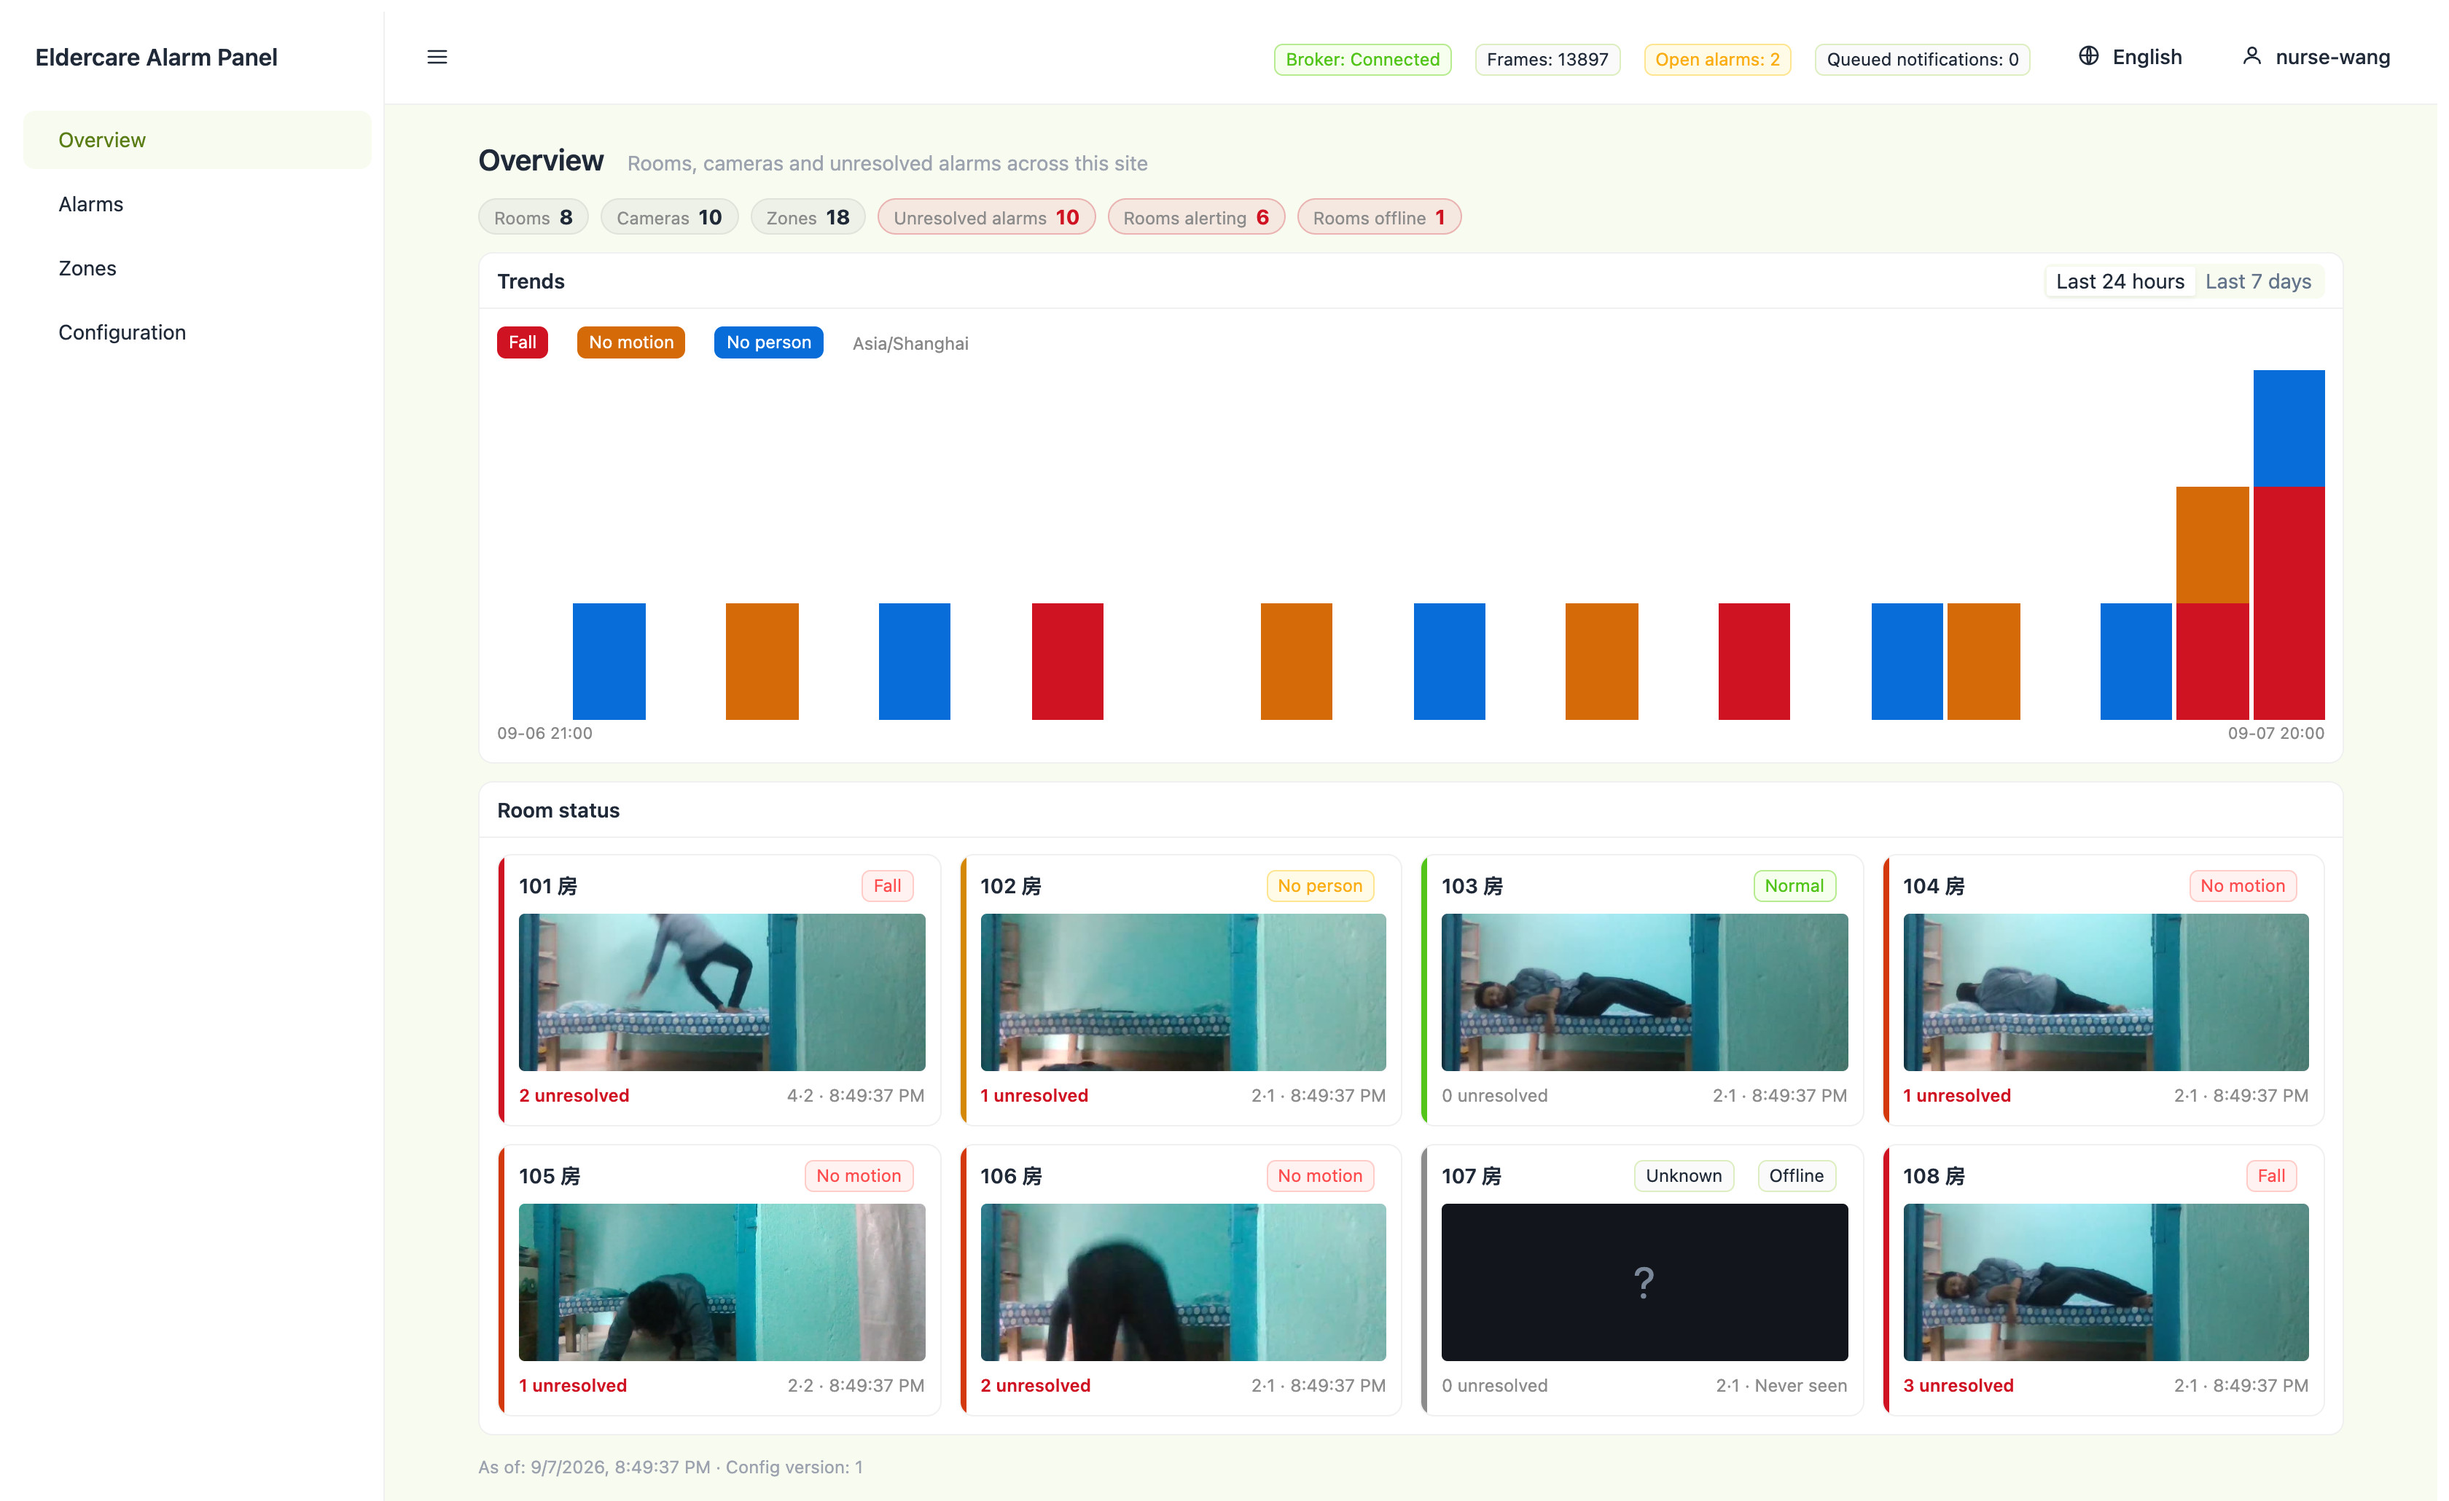
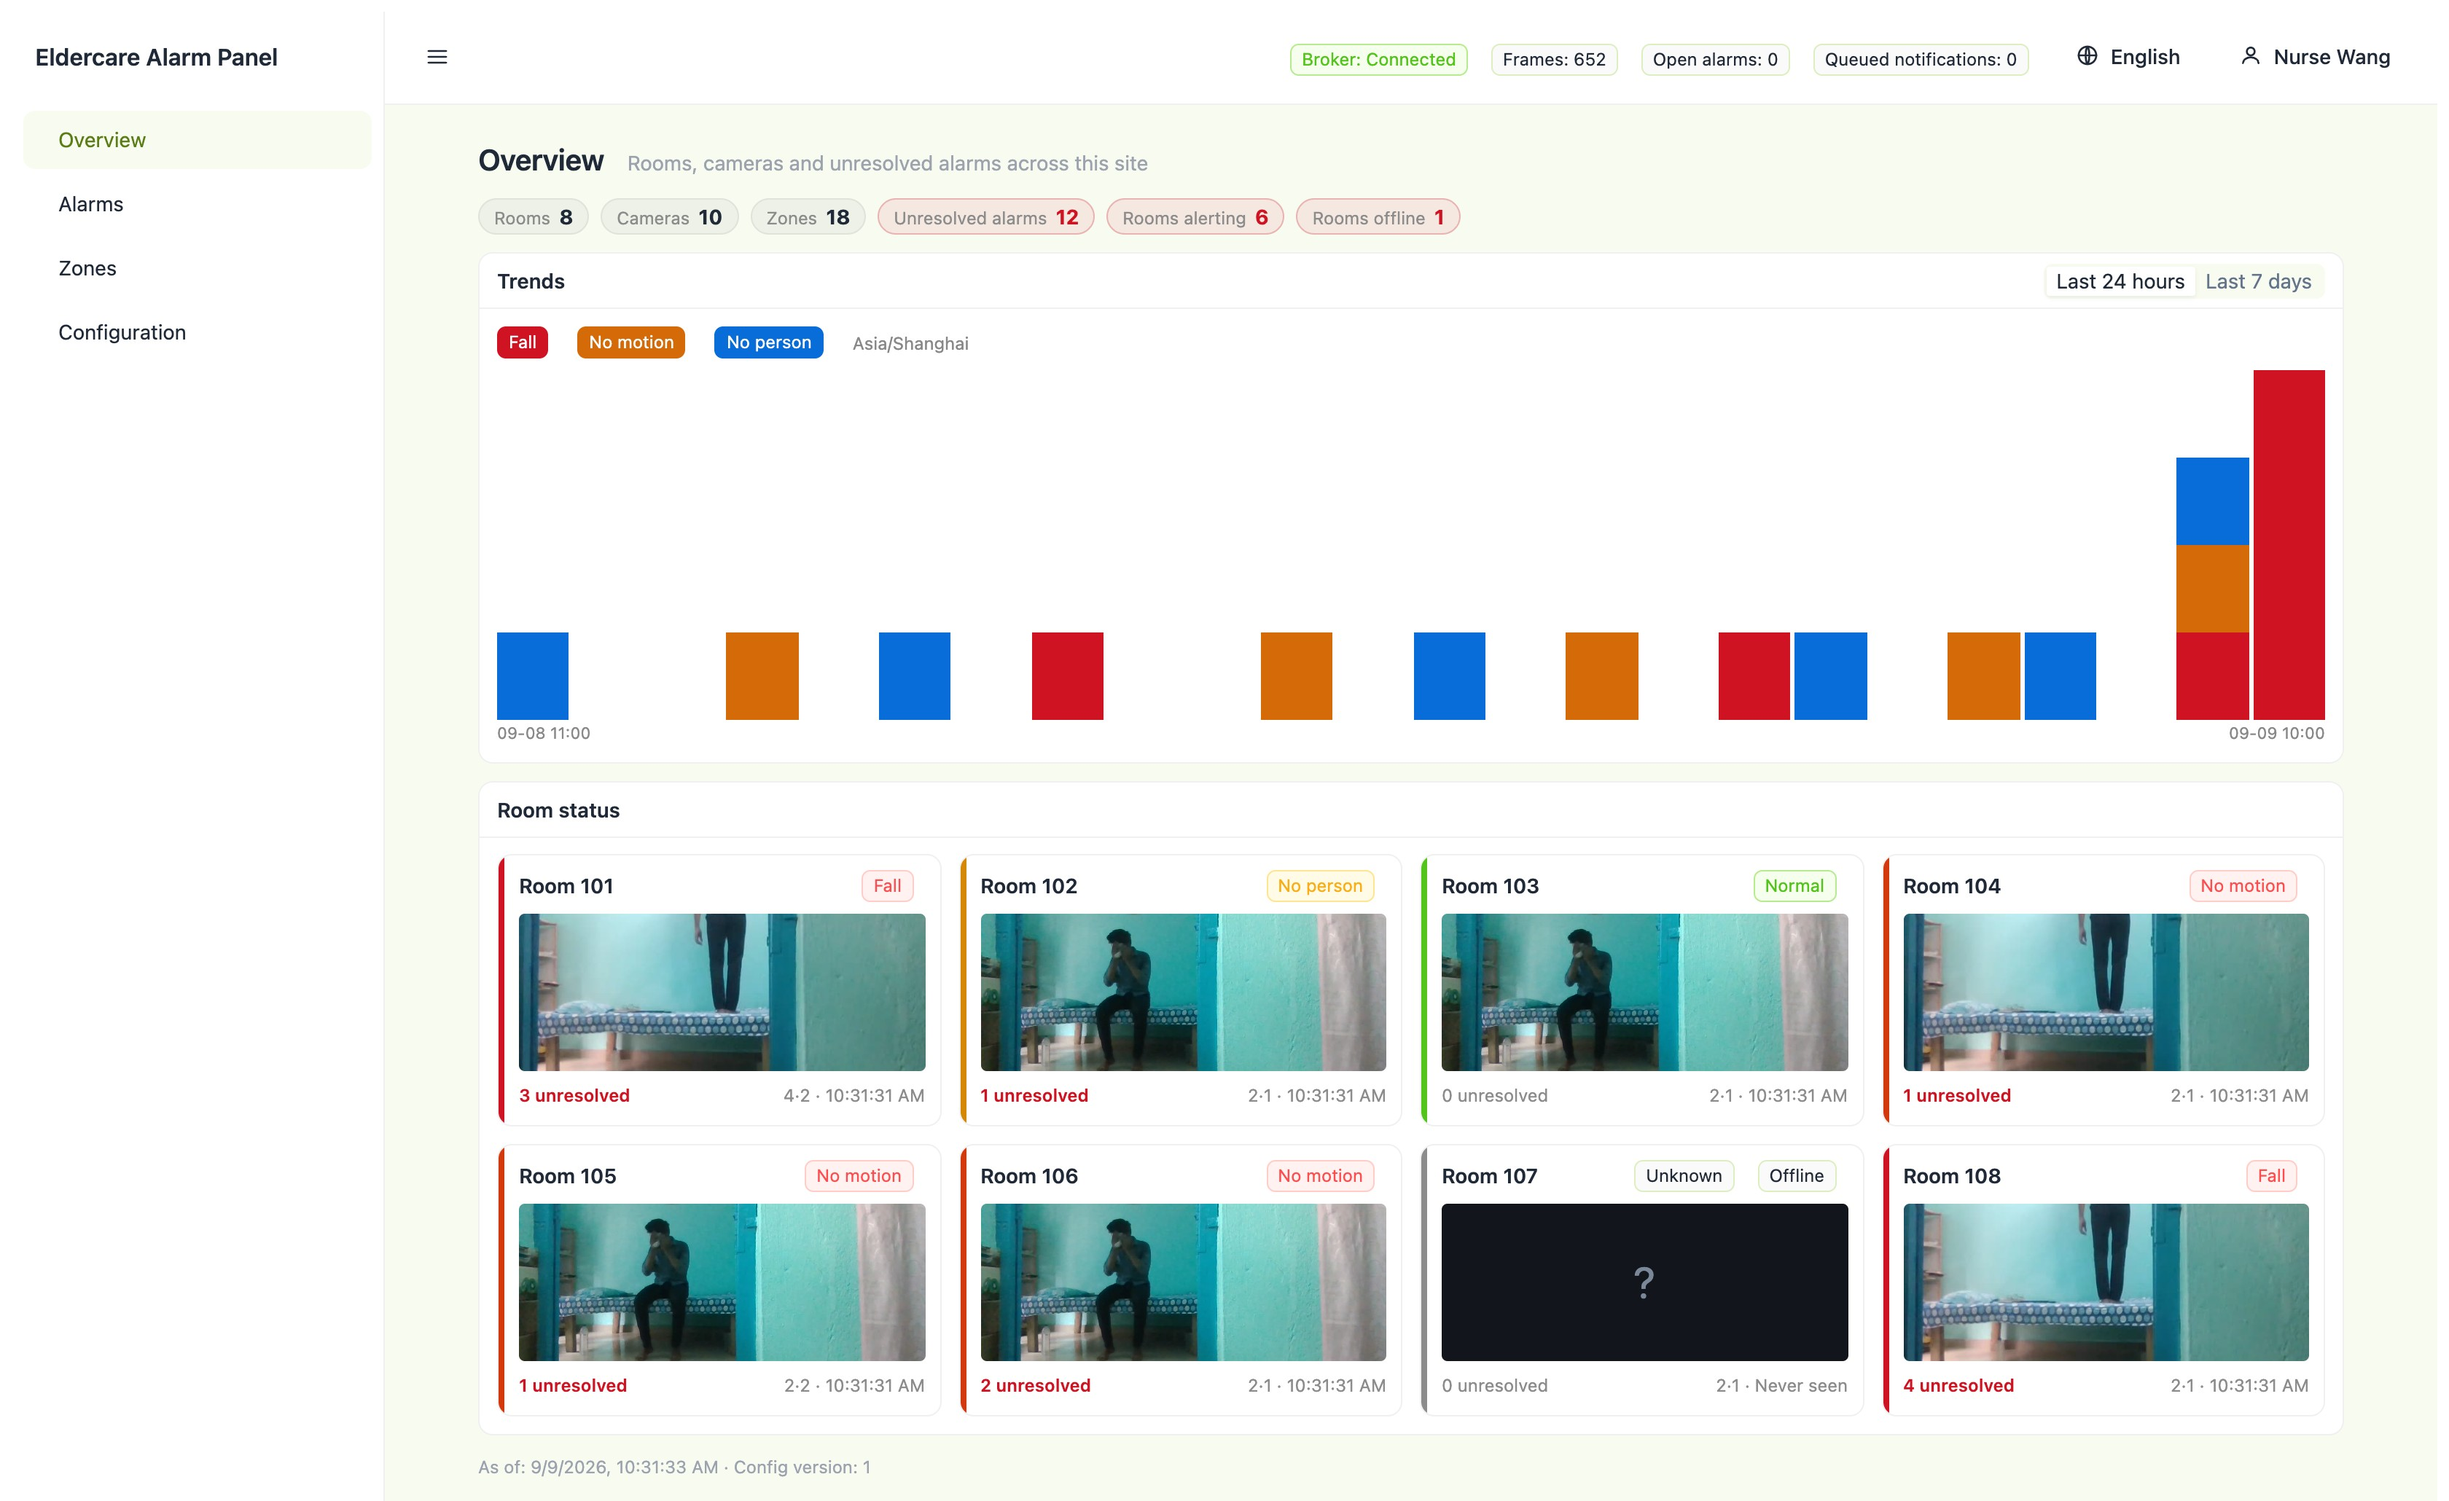
docs(gallery): English fixture screenshots for fall_detection (#162)
* docs(gallery): English fixture screenshots for fall_detection

panel-dashboard-en.jpg only had the panel UI chrome translated; the demo
fixture underneath (room names like "101 房", zone names, the site name,
resolver names) was still Chinese, and panel-config-live-view-en.jpg did
not exist. Re-shot both against the same local-replay recipe as the
2026-09-07 capture (demo_site.py + go2rtc + GMDCSA-24 replay), using a new
--lang en flag on eldercare-alarm's demo_site.py (separate commit in that
repo) so room/zone/site/resolver names render in English too. Recipe
details and tesseract verification in gallery/ATTRIBUTION.md.

* docs(gallery): note OCR false positives precisely in fall_detection ATTRIBUTION

codex review of #162: the earlier wording implied zero Chinese-character
OCR hits; OCR did return a few isolated single-character tokens inside the
video imagery (not on any label), which is a false positive, not Chinese
text on the panel.

diff --git a/solutions/fall_detection/gallery/ATTRIBUTION.md b/solutions/fall_detection/gallery/ATTRIBUTION.md
@@ -104,6 +104,55 @@ Chinese page. `alarm-architecture.svg`, `panel-room-offline-zh.jpg`,
 `panel-config-conflict-409-zh.jpg` and `panel-draw-save-reload.gif` are not
 referenced from `solution.yaml` today; they are kept here for the landing page.
 
+## English fixture re-capture (2026-09-09)
+
+`panel-dashboard-en.jpg` already existed but only the panel UI chrome was
+English — the demo fixture data underneath (`101 房`, `101 房床区`,
+`101 房地面活动区`, the site name, the two demo resolver names) was still
+Chinese, and `panel-config-live-view-en.jpg` did not exist at all. Both are
+re-shot end to end against the same local-replay recipe as the 2026-09-07
+capture above (`evaluation/demo_site.py` + go2rtc + local replay of the
+GMDCSA-24 v2.1 footage), with the fixture language switched to English:
+
+- `eldercare-alarm/evaluation/demo_site.py` gained a `--lang {zh,en}` flag
+  (defaults to `zh`, so the existing `-zh` screenshots' recipe is
+  unchanged). `--lang en` renders room names as `Room 101`...`Room 108`,
+  zone names as `Bed zone` / `Floor zone`, the site name as `Sunrise Care
+  Home · Floor 3`, and the two demo resolver names as `Nurse Wang` /
+  `Nurse Li`.
+- go2rtc (`alexxit/go2rtc` Docker image) served the same subject-4 GMDCSA-24
+  v2.1 clips (`Fall/01.mp4`, `ADL/01.mp4`, fetched from the ghproxy mirror
+  of the upstream dataset repo, MIT — see the citation under `cover.png`
+  above) as 8 looped RTSP sources at `rtsp://127.0.0.1:8554/<cam-id>`,
+  matching `demo_site.py --rtsp-base`'s default.
+- Room states that need a real inactivity timeout (`no_motion` at
+  1800/2700s, `no_person` at 3600/7200s) were seeded directly through
+  `AlarmService.inactivity.observe()` at service startup with an
+  8-hours-old timestamp, instead of waiting out the real timeout in wall
+  clock — a small one-off launcher script, not part of the shipped
+  service. `fall` states came from the normal MQTT replay path
+  (`evaluation/replay/replayer.py --scenario fall`). A background MQTT
+  heartbeat kept every working stream's `last_frame_ms` fresh (so rooms
+  read online rather than offline) without disturbing the seeded
+  inactivity clocks.
+- Playwright + Chrome, viewport 1680×1150, `deviceScaleFactor: 2`,
+  full-page capture — same recipe as 2026-09-07, so both screenshots are
+  again 3360×2332 before cropping to content and saving as JPEG quality 90
+  (`panel-dashboard-en.jpg` → 3360×2060, `panel-config-live-view-en.jpg` →
+  3360×1860, matching their `-zh` counterparts pixel-for-pixel).
+- Frontend note: `eldercare/web/ui/dist` had gone stale (predated the
+  Overview/Configuration pages), which briefly hid those two nav items
+  during this capture; rebuilding with `npm install && npm run build`
+  fixed it. That dist output is not committed here — it lives in the
+  `eldercare-alarm` repository, not this one.
+
+Checked with `tesseract -l chi_sim+eng` (both TSV and default output) plus
+visual inspection: OCR does return a handful of isolated single-character
+Chinese-looking tokens (e.g. `人`, `一`) at low-to-moderate confidence, all
+landing inside the video imagery rather than on any label, button or name —
+false positives, not Chinese text. Neither image has readable Chinese
+anywhere.
+
 ### CDN upload — pending
 
 These files are referenced from `solution.yaml` as local `gallery/<name>` paths,
